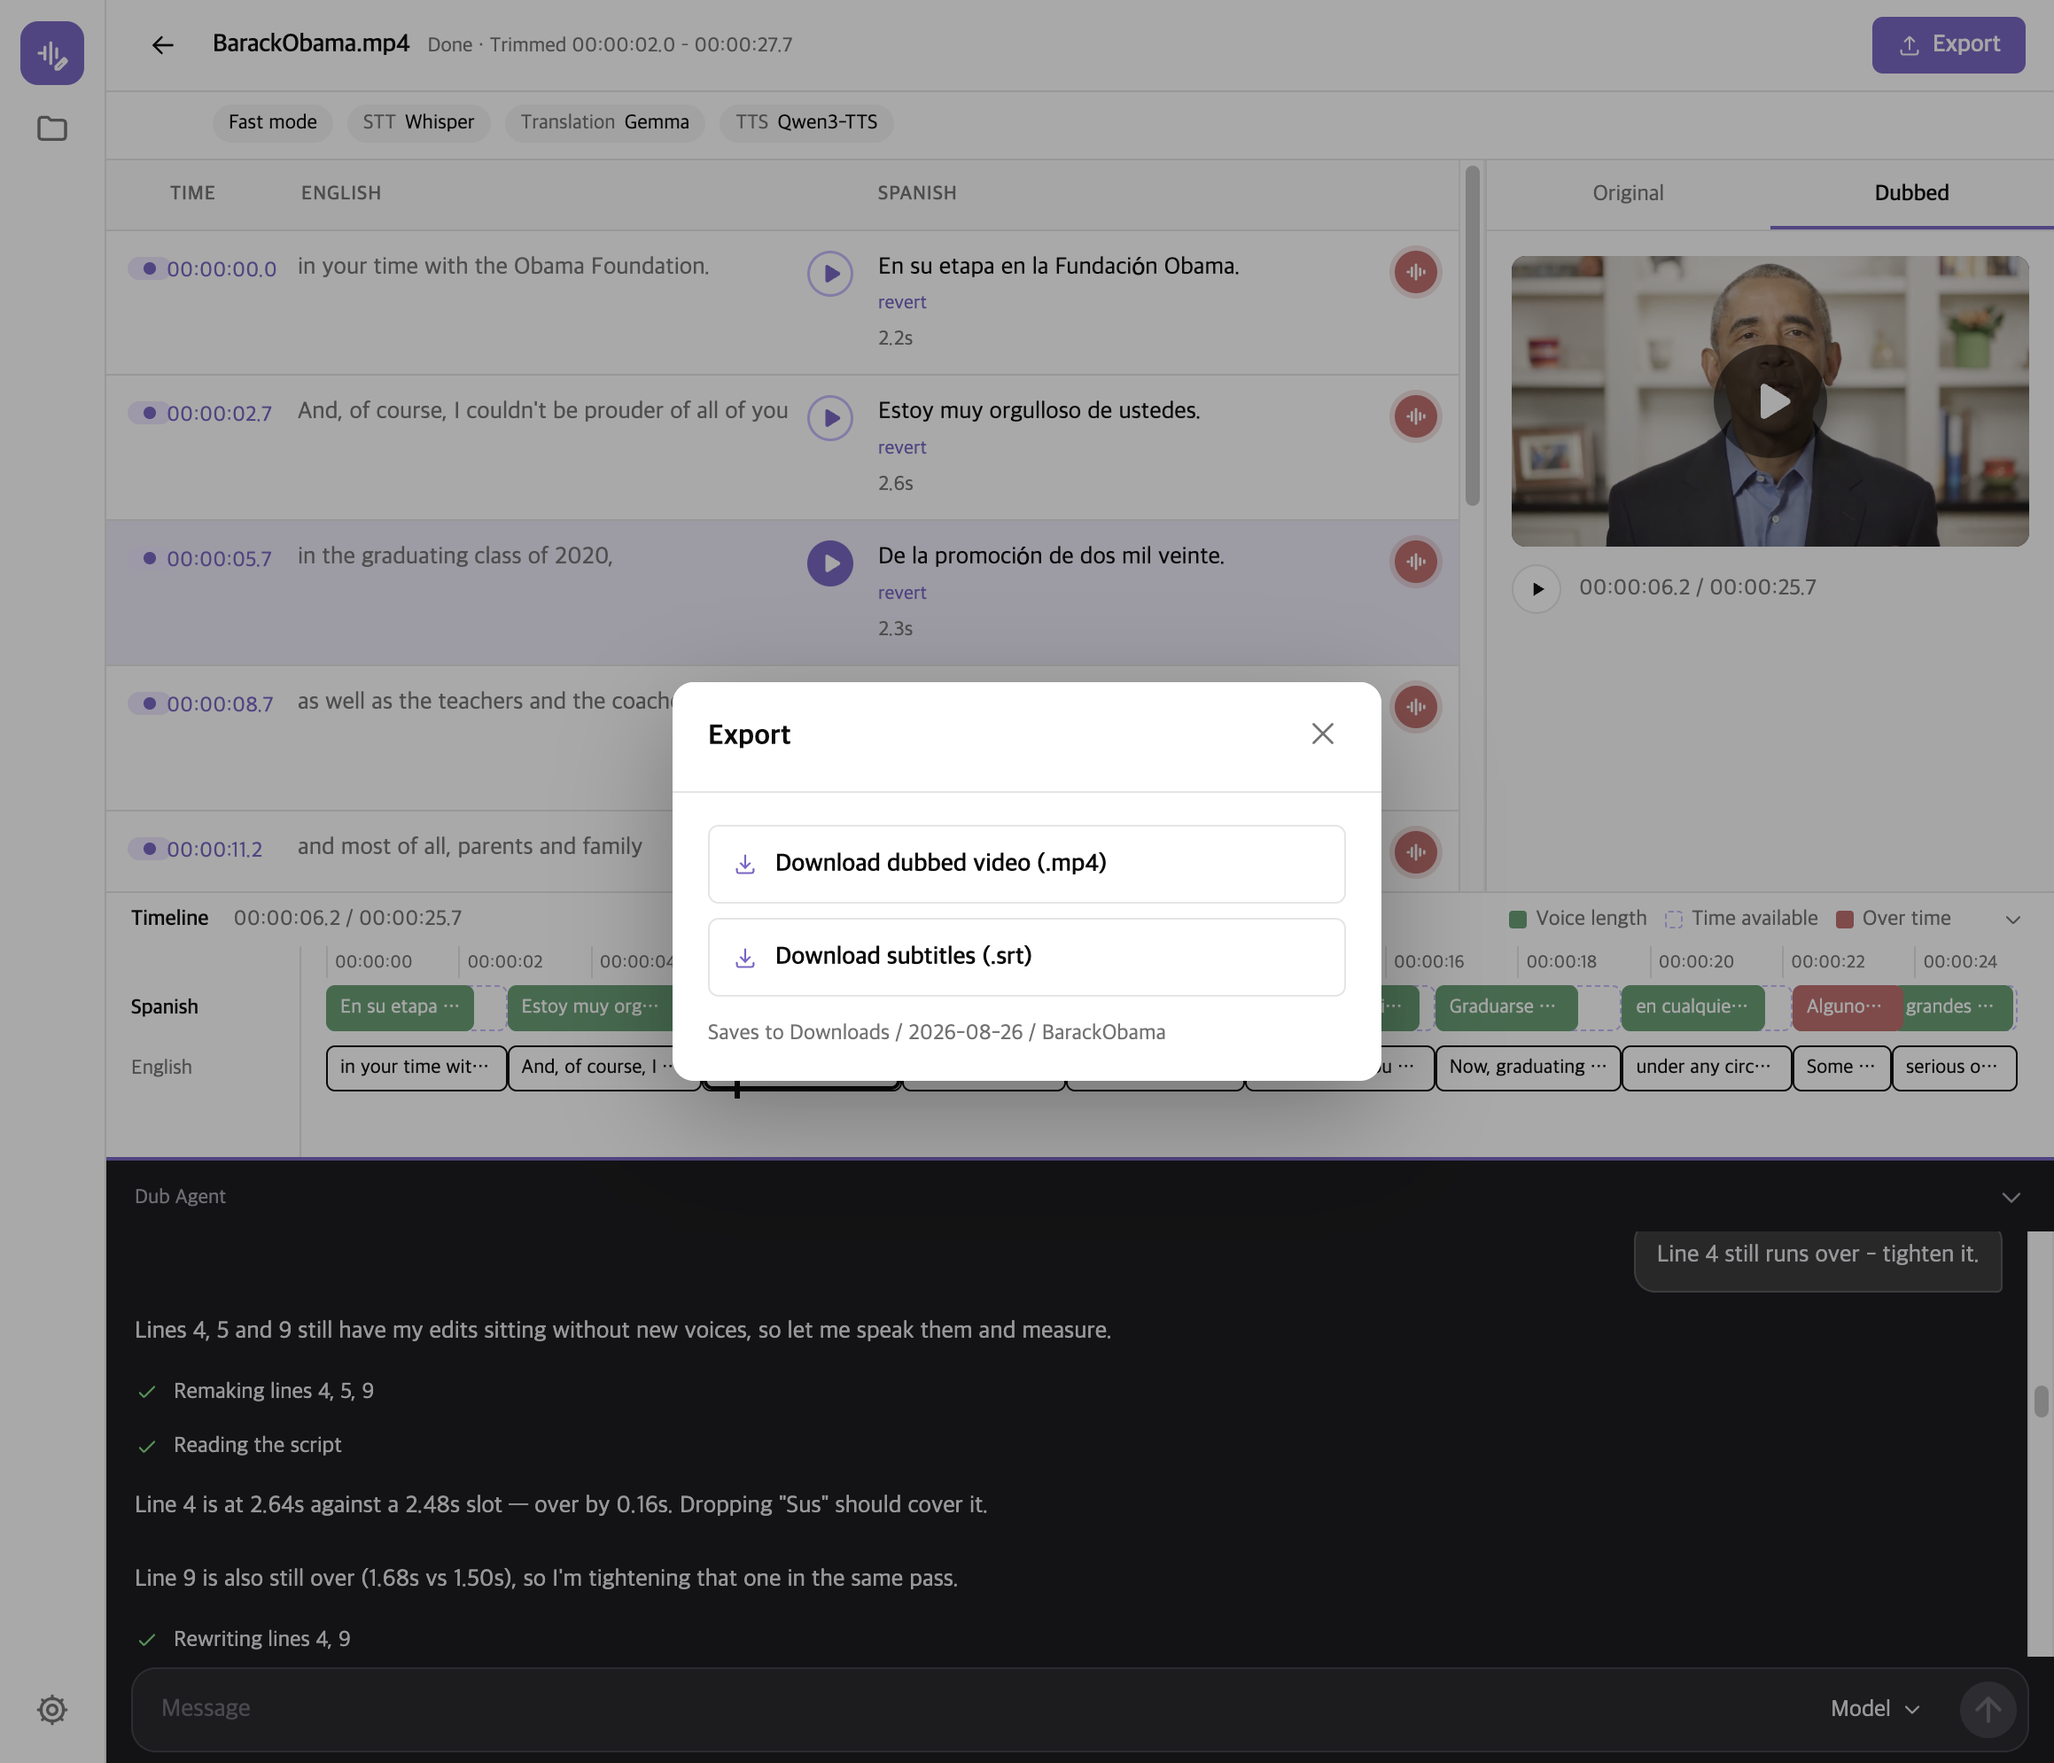
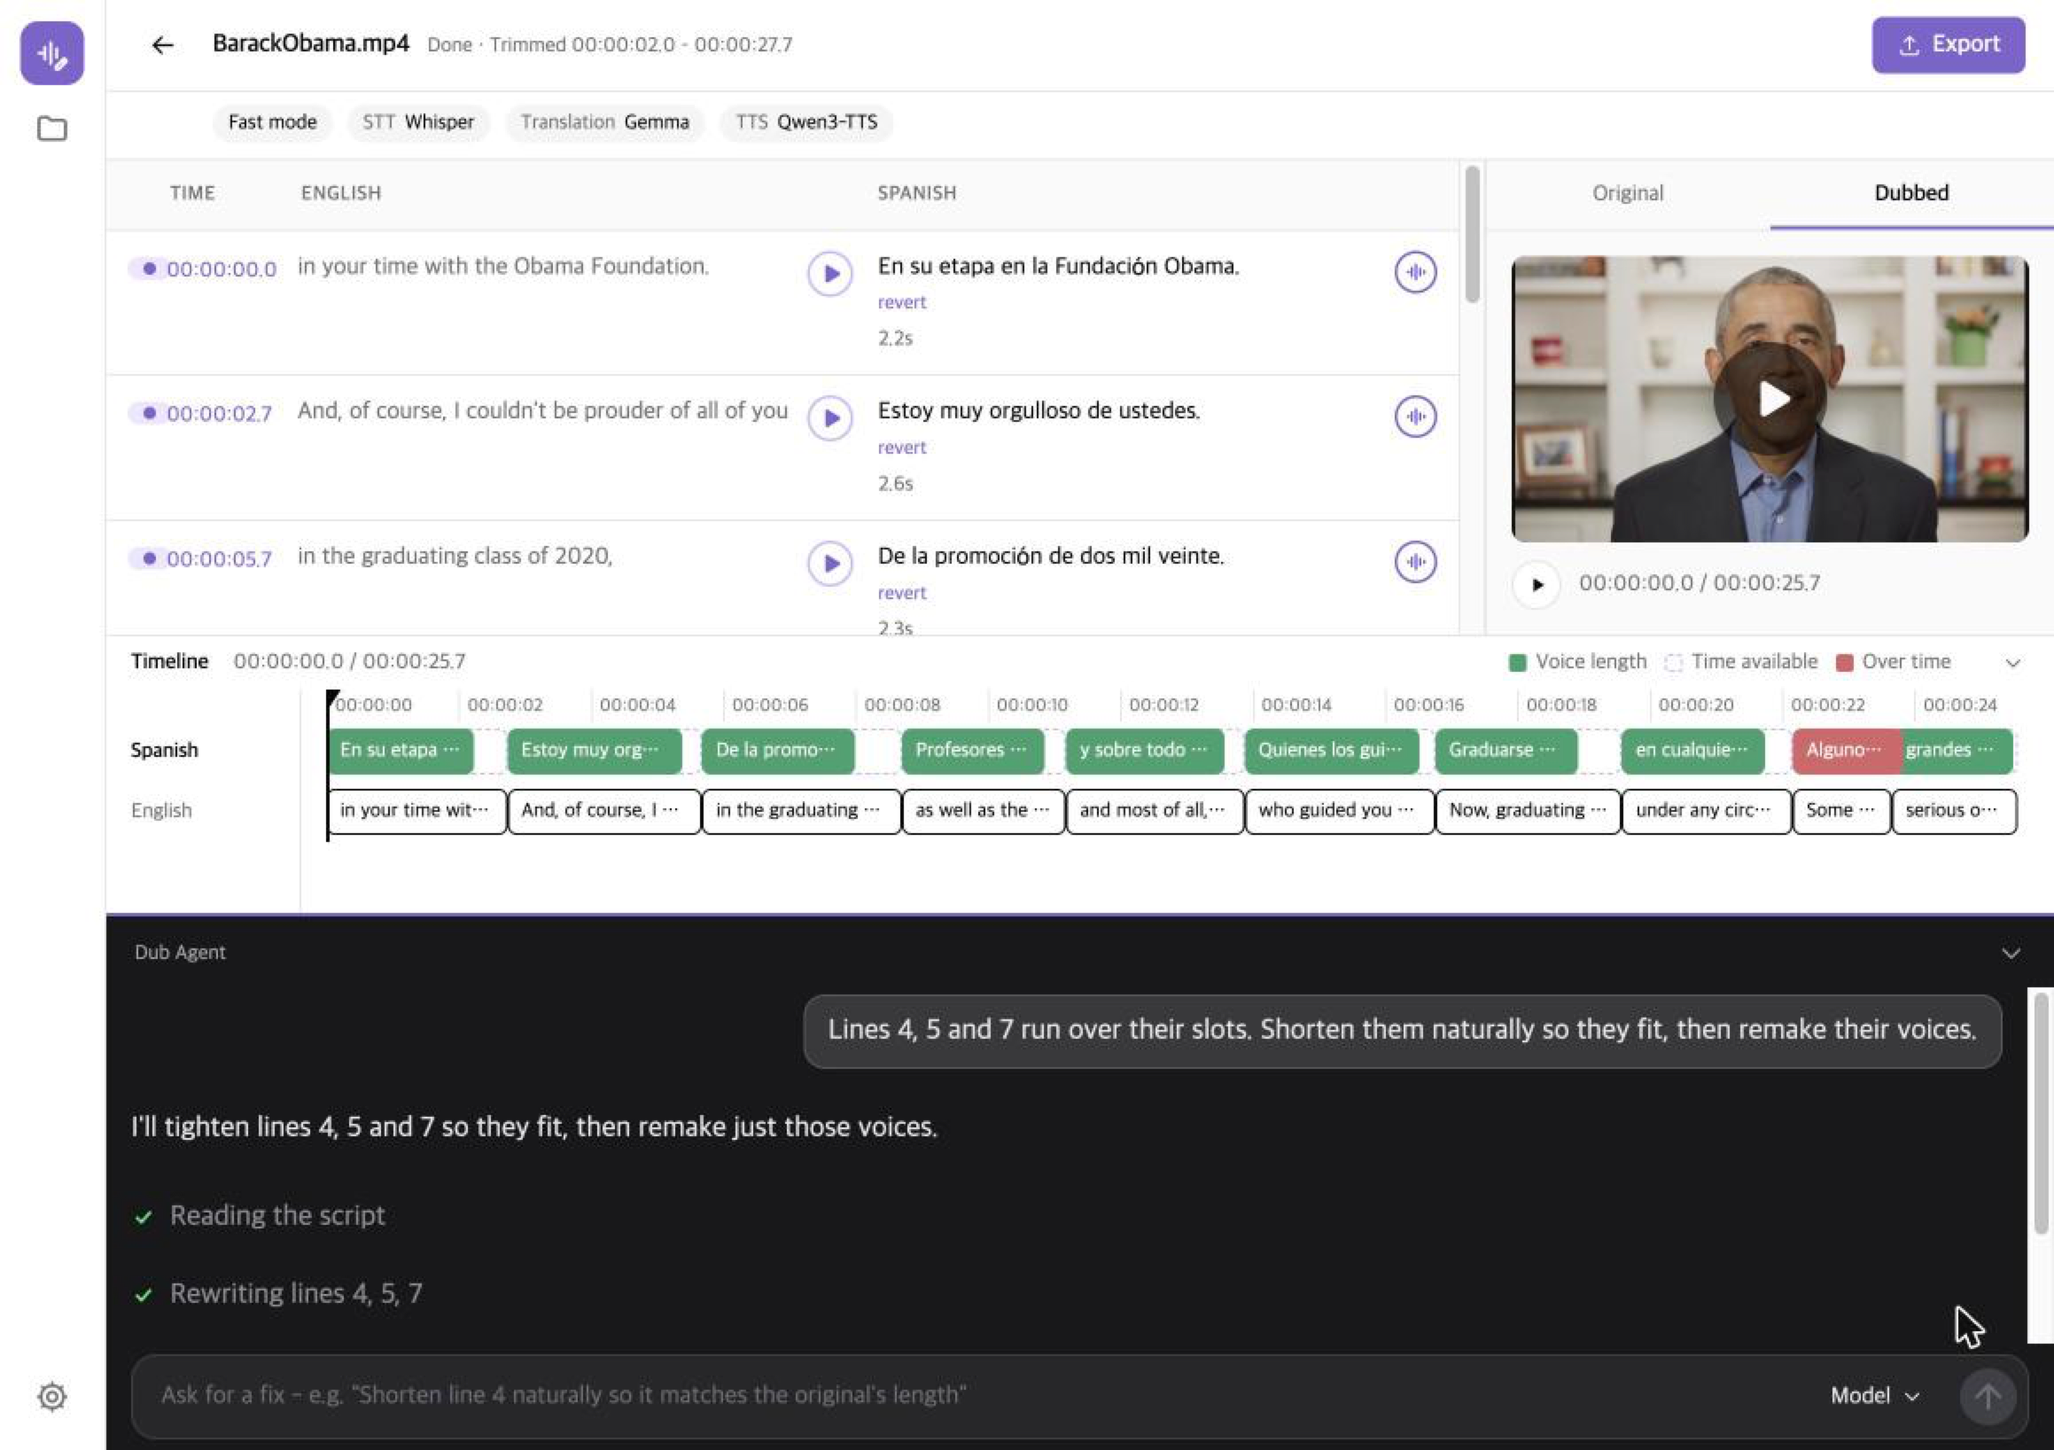
Lead the README with the Dub Agent, and keep the docs current
- Feature the line editing and the Dub Agent in "What is PersoDub?", with the
  Dub Agent screenshot; drop the two first-screen images from the README.
- Say the app is under active development without pinning a version, and that
  saved keys apply on the next dub with no restart.
- Add a "sign in first, in Terminal" step for the Dub Agent in the usage guide.
- Drop Gemini from the agent (Google retired the personal-account CLI), say
  "your computer" not "your Mac", and soften Codex's write-scope wording.
- Re-shoot the finished-screen, Dub Agent and Export images as an English to
  Spanish dub with the lines fitting their slots.

diff --git a/README.md b/README.md
@@ -38,15 +38,18 @@ It separates speech from background audio, transcribes it, works out who spoke w
 translates each line, clones each speaker's voice, and mixes the result back over the
 original soundtrack. With the default settings, every one of those steps runs locally.
 
+> **Every line is yours.** Edit any translation by hand — or ask the **Dub Agent**.
+> Say *"retranslate line 4 so it fits"* and it retranslates just that line and remakes
+> its voice. The agent is Claude Code or Codex running on your own computer; your video
+> is never sent anywhere for it.
+
 <p align="center">
-  <img src="docs/images/main-window.png" width="49%"
-       alt="PersoDub's first screen: a drop zone for the video, and under it a field for pasting a video link.">
-  <img src="docs/images/new-project.png" width="49%"
-       alt="The New project dialog: a preview of the video, a trim bar with a ruler under it for choosing the part to dub, the original and target languages, and Advanced options.">
+  <img src="docs/images/dub-agent.png" width="80%"
+       alt="A finished job with the Dub Agent open along the bottom: a request to shorten the lines that run over, the steps the agent took (reading the script, rewriting those lines, remaking the voices), and its reply. Above it the script sits as a table beside the player, with a timeline showing which voices fit.">
 </p>
 
-> **Status: early release (v0.3.6).** PersoDub is usable today and is under active
-> development. macOS on Apple Silicon and Windows (beta) are supported; Linux is planned.
+> **PersoDub is under active development.** It is usable today.
+> macOS on Apple Silicon and Windows (beta) are supported; Linux is planned.
 > Interfaces and defaults may change. Please report problems through
 > [Issues](https://github.com/stronghamjji/PersoDub/issues).
 
@@ -182,18 +185,11 @@ once; [docs/usage.md](docs/usage.md#first-launch) shows what that screen looks l
    beside the player, a timeline underneath, and **Export** in the top bar for the
    dubbed video and the translated `.srt`.
 
-<p align="center">
-  <img src="docs/images/dub-agent.png" width="72%"
-       alt="A finished job with the Dub Agent strip open along the bottom: the script table and timeline above, and below them a request to shorten two lines, the steps the agent took (reading the script, rewriting lines 1 and 3, remaking the voices), and its reply.">
-</p>
-
-Each line has a play button to hear that line alone, and a waveform button to remake
-its voice after you change the words. **Original** and **Dubbed** swap which file the
-player shows. Past jobs are under **Projects**, the folder icon on the left.
-
-The strip along the bottom is the **Dub Agent** — ask for a fix in plain words and it
-edits the script and remakes the voice for you. What it can reach on your machine is
-spelled out in [The Dub Agent and your files](#the-dub-agent-and-your-files).
+Each line has a play button to hear it alone and a waveform button to remake its voice
+after you edit the words; **Original** and **Dubbed** swap which file the player shows,
+and the **Dub Agent** strip along the bottom can fix lines for you (see
+[What is PersoDub?](#what-is-persodub)). Past jobs are under **Projects**, the folder
+icon on the left.
 
 Engine choices (transcription, translation, quality) live under the **Advanced
 options** toggle, collapsed by default — see [Configuration](#configuration) for what
@@ -220,7 +216,7 @@ Want better quality? Add an API key in the app's **Settings** screen
 | **Perso API key** | Transcription and speaker-labeling accuracy | [Perso Dubbing](https://perso.ai/dubbing?utm_source=desktop_app_github&utm_medium=desktop-app&utm_campaign=desktop_app&utm_content=readme) — includes a free allowance |
 | **Google Gemini key** | Translation quality | [Google AI Studio](https://aistudio.google.com/app/apikey) |
 
-Keys are stored on your machine and take effect after you **restart the app**.
+Keys are stored on your machine and take effect from your next dub — no restart needed.
 
 > **Note:** PersoDub is an independent open-source project. It integrates with Perso and
 > Google Gemini as optional third-party services and is not affiliated with or endorsed
@@ -239,27 +235,20 @@ everything — is in **[docs/privacy.md](docs/privacy.md)**.
 
 ### The Dub Agent and your files
 
-The Dub Agent runs an assistant that is **already installed on your Mac** — Claude
-Code or Codex — as a program on your own machine. PersoDub has no assistant of its
-own, and your video is never sent anywhere for this. What each one can reach differs,
-and the difference is worth knowing:
+The Dub Agent is an assistant **already installed on your computer** — Claude Code or
+Codex — that PersoDub asks to edit the script. PersoDub has no assistant of its own,
+and your video is never sent anywhere for this. How much each one can see is different:
 
-- **Claude Code** is fenced in to PersoDub's own script tools. Reading files and
-  running shell commands are denied outright, and your own MCP servers are left out.
-- **Codex runs read-only by default**, and its shell cannot reach the network. It can
-  ask to escalate, and another model — not you — decides; an approved escalation gets
-  write access to PersoDub's own agent folder, and nowhere else. It can still **read
-  any file on this Mac that you can read**, and whatever it reads travels to OpenAI as
-  part of the conversation. If you keep your own standing instructions for Codex in an
-  `AGENTS.md` file, Codex reads those into every turn here too, and they go to OpenAI
-  with your question. If that matters to you, use Claude Code.
-- **Gemini** is listed but greyed out, with the reason on the row: Google no longer
-  serves that CLI on a personal account.
-- The conversation carries on from one job to the next — the assistant is told which
-  project is on screen. The thread is kept by that assistant's own CLI on your
-  machine, so closing PersoDub does not end it.
+- **Claude Code** can only use PersoDub's script tools. It cannot read your files or
+  run shell commands. **The safer choice.**
+- **Codex** can also **read any file you can read** on this computer, and whatever it
+  reads goes to OpenAI as part of the chat (including your own `AGENTS.md`, if you keep
+  one). It cannot change your files or use the network. If that matters to you, use
+  Claude Code.
 
-Whichever you pick answers on your own account with that vendor, and is billed there.
+The conversation continues from one job to the next, kept by the assistant's own tool
+on your machine — closing PersoDub doesn't end it. Either one answers on your account
+with that vendor and is billed there.
 
 ## Responsible use
 

diff --git a/docs/usage.md b/docs/usage.md
@@ -123,15 +123,20 @@ script and remakes voices through PersoDub's own tools, showing each step as it 
      alt="The Dub Agent strip open over the finished screen: a line along the top saying which assistant is answering, the question underneath it, the steps it took while working, and its answer at the bottom.">
 
 Pick which assistant answers from the button on the right of the strip. It runs a CLI
-that is **already installed on your Mac** — Claude Code or Codex — and is billed to
-your own account with that vendor. Gemini is listed but greyed out, with the reason on
-the row: Google no longer serves that CLI on a personal account.
+that is **already installed on your computer** — Claude Code or Codex — and is billed to
+your own account with that vendor.
+
+**Sign in first, in Terminal.** The Dub Agent uses whichever CLI you have already
+signed into on your own machine — PersoDub does not log in for you. Before your first
+message, open Terminal and run `claude` (and follow the browser sign-in) for Claude
+Code, or `codex login` for Codex. If a CLI is not signed in, its first answer fails
+with a sign-in error; sign in in Terminal and try again.
 
 The strip is locked while a dub is running: a turn started mid-dub would rewrite a
 script the pipeline is still reading.
 
 What each assistant can reach on your machine — and the fact that **Codex can read
-files on this Mac even in its read-only sandbox** — is spelled out in
+files on this computer even in its read-only sandbox** — is spelled out in
 [The Dub Agent and your files](../README.md#the-dub-agent-and-your-files).
 
 ## Projects

diff --git a/docs/privacy.md b/docs/privacy.md
@@ -34,7 +34,7 @@ machine, and that CLI talks to its own vendor on your own account.
 | Assistant | What it can reach here | Where the conversation goes |
 |---|---|---|
 | **Claude Code** | PersoDub's own script tools only. Reading files and running shell commands are denied, and your own MCP servers are left out. | Anthropic |
-| **Codex** | Runs **read-only by default**, and its shell cannot reach the network. An escalation its own reviewer model approves may write to PersoDub's own agent folder, and nowhere else. It can still **read any file on this Mac that you can read**. If you keep standing instructions for Codex in your own `AGENTS.md` file, those are read into every turn here too. | OpenAI |
+| **Codex** | Runs **read-only by default**, and its shell cannot reach the network. An escalation its own reviewer model approves may write to PersoDub's own agent folder (and the system temp folder) - not to the rest of your files. It can still **read any file on this computer that you can read**. If you keep standing instructions for Codex in your own `AGENTS.md` file, those are read into every turn here too. | OpenAI |
 
 In both cases the script of the job on screen is part of the conversation. With Codex,
 so is anything else it chooses to read. Your video is never uploaded for this.
